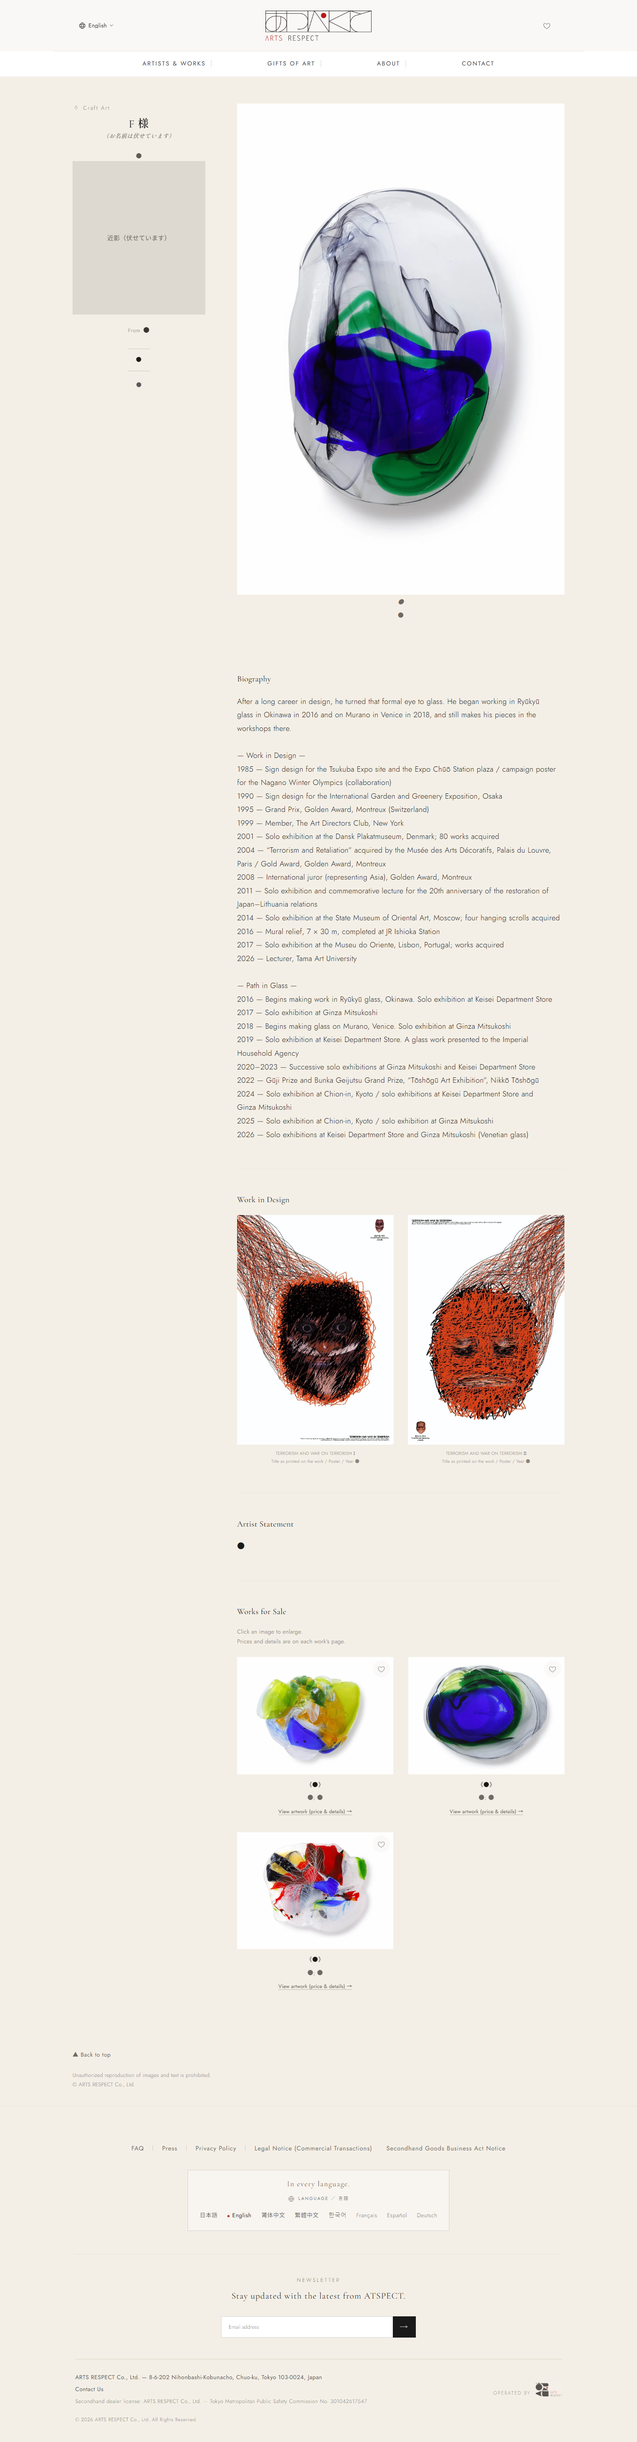
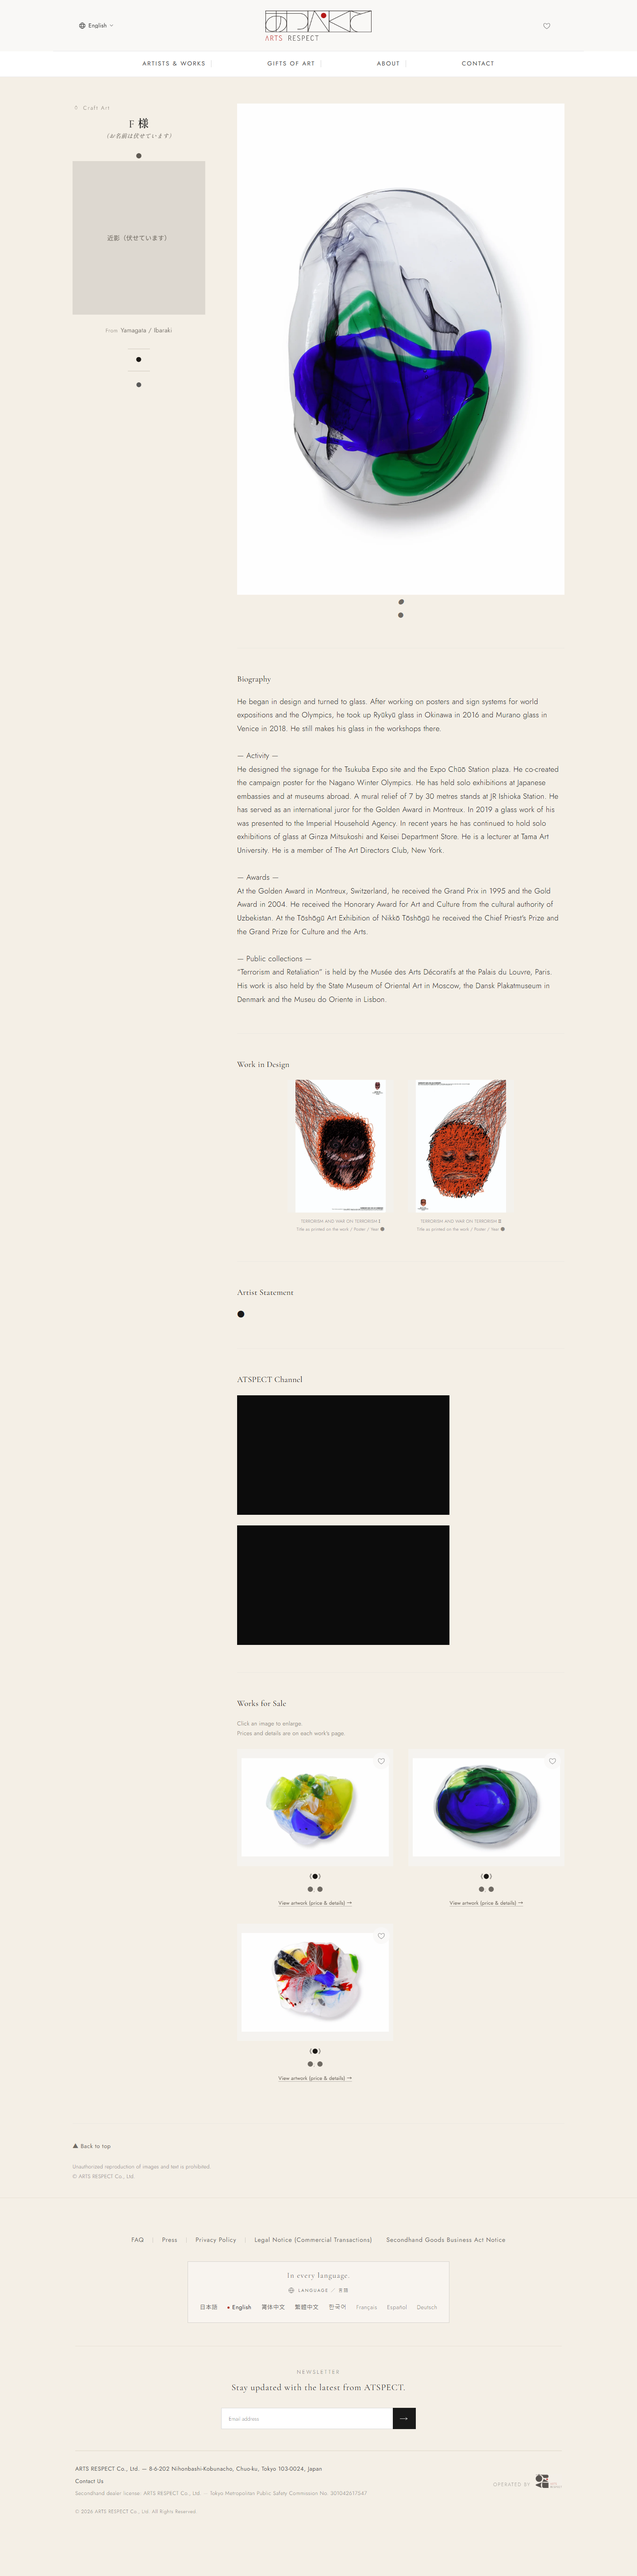
@ 制作: 実機確認のご指摘を是正（図版の切り抜き・経歴の作り直し）
- 販売作品の4:3切り抜きを廃止し全図表示へ（縦長作品は上下36.6%が失われていた・実測）
- 影響範囲を全数確認＝作品を持つ作家は3名9点のみ。作品ブラウズ・作品詳細は元から全図
- デザイン代表作2点を縮小（高さ最大300px・中央揃え）
- 経歴を年譜から種類別の区分へ（W様=活動歴／F様=活動歴・受賞歴・収蔵）。8言語で行数・区分数一致
- F様の出身を「山形・茨城」に確定、生年・年齢は非掲載
- Codex指摘21件をすべて採用（文まるごと置換＋置換後の読み直し）
- 資料の文面・構成のままの転載を禁じる恒久ルールをCLAUDE.mdへ記録

@

diff --git a/reports/seisaku.md b/reports/seisaku.md
@@ -196,3 +196,100 @@ F様の確認一枚の**冒頭**に置きました（●の一覧より前に、
 直すと既存ページの見え方も変わるため、**本便では触っていません**（ご判断をいただければ対応します）。
 
 <!-- 追記 2026-08-13 あつぺくと制作T / Opus 5 -->
+
+---
+
+# 追記（2026-08-13・制作T／Opus 5）＝実機確認のご指摘を是正しました
+
+## 10. 恒久ルールを先に記録しました
+
+**「お預かりした資料は、事実の源であって原稿ではない。事実は資料から取り、書き方は必ずあつぺくとの仕様
+（既存作家ページの型・文体・分量）に編集し直す。資料の文面・構成のままの転載を禁止する。」**
+をプロジェクトのCLAUDE.mdへ追記しました。**実例（今回の失敗）も併記**しています＝
+**事実は合っていたが、構成が資料（年譜）のままで、既存の作家ページと揃っていなかった。**
+「事実が合っているか」だけを見て「書き方が当社の型か」を見ていなかったのが原因です。
+
+## 11. 図版
+
+### 11-1. ★販売作品＝切り取られていた（実測して直しました）
+
+作家ページの販売作品は **4:3に切り抜く（cover）** 作りでした。**縦長の作品ほど大きく失われます。**
+
+| 作品 | 切り抜きで失われていた量（実測） |
+|---|---|
+| W様の縦長の作品2点 | **上下が 36.6% / 36.5%** |
+| W様の横長の作品1点 | 上下が 10.3% |
+| F様のガラス3点 | 左右が 11.1%（3点とも） |
+| 既存の作家さまの3点 | 左右が 0.1% / 0.7% / 4.6%（ほぼ切れていなかった） |
+
+→ **縦横比を保ったまま枠に収め、余りは余白にする形（contain）へ変更**しました。**切り抜きは無くなりました。**
+
+### 11-2. 既存作家さまへの影響＝**3名・9点だけ**（全数を数えて確認）
+
+**作品を持つ作家さまは全体で3名しかいません**（他の作家さまのページには販売作品の欄そのものが出ません）。
+うち2名は今回の2名で、残る1名が既存の作家さまです。**その1名の作品は元から4:3に近く撮られており、
+失われていたのは0.1〜4.6%**でした。**反映後に実機で確認し、退行は0件**です。
+
+★**作品ブラウズと作品詳細は、以前から全図表示（contain）で、切り抜きはありませんでした**（実測）。
+**直す必要があったのは作家ページの1箇所だけ**です。**勝手に全体へ当てていません。**
+
+### 11-3. デザインの代表作2点＝小さくしました
+
+高さで頭打ちにして（最大300px）、代表作の図版より控えめな大きさに変えました。中央に揃えています。
+
+## 12. 経歴を作り直しました（2名とも）
+
+**年ごとに並べる形（年譜）をやめ、種類別の区分に組み直しました。**
+
+| | 区分 |
+|---|---|
+| W様 | 冒頭の1段落 ＋【活動歴】 |
+| F様 | 冒頭の紹介文 ＋【活動歴】【受賞歴】【収蔵】 |
+
+- **F様の「デザインからガラスへ」の一本の線は、区分ではなく冒頭の紹介文で語る形**にしました
+  （二章の枠組みは廃止）。
+- **資料の文面のままにせず、当社の文体で書き直しました。1文1事実。**
+- **8言語すべてで、行数・区分数が一致**していることを機械で確認（W様4行／F様10行・3区分）。
+
+## 13. F様の事実（代表確定分）
+
+- **出身＝「山形・茨城」**と記載しました（8言語）。
+- **生年・年齢は掲載していません**（表示から外し、●にもしていません）。実際に生年の行が出ていないことを確認済み。
+- 確認一覧（★ご確認のお願い）から**生年・出身の●を削除**し、**新しい構成に合わせて全面的に書き直しました**
+  （旧構成の語が残っていないことも機械で確認）。
+
+★**1点お知らせ**＝W様も資料上「1951年 山形県生まれ」です。F様の出身に「山形」が入るのは
+**取り違えではない**という前提で反映しています。もし混同でしたらお知らせください。
+
+## 14. Codexの独立レビュー（1ファイル1観点で2件依頼・両方とも返答あり）
+
+**W様5件・F様16件、合計21件すべてを採用**しました。主な型：
+
+| 指摘の型 | 件数 | 例 |
+|---|---|---|
+| 原文の「個展」が訳文で落ちている | 8 | 「展示した」に弱まっていた |
+| 役職・機関名が別のものに変わっている | 8 | 「文化庁」が「文化省」に／「講師」が「教えている」に |
+| 原文に無い意味が足されている | 2 | 「グランプリ」が「特別大奖」に |
+| 別の館と読める書き方 | 2 | ルーヴル宮の中の装飾芸術美術館が、ルーヴル美術館と読めた |
+| 並列の前置詞が不統一 | 1 | 西語 |
+
+★**前回の反省を踏まえ、今回は断片ではなく文まるごとを置き換え、置換後の文を1つずつ読み直しました**
+（前回は断片置換で仏・西の文法を壊しました）。**今回は壊れ0件**です。
+
+## 15. 検品
+
+- **2名 × 2言語（ja/en）× 3幅（1440 / 768 / 390）＝12枚**＋部分カット（販売作品の全図・デザイン2点・価格）。
+- **撮影前に毎回いちど最下部までスクロールし、位置0を実測してから撮影。**
+- **横溢れ＝12通りすべて0件。** 販売作品3点・デザイン2点・動画枠の描画数も全通りで一致。
+- **画像を目で見て確認**＝販売作品が**切り取られずに全体が見えている**こと、デザイン2点が**小さくなった**ことを確認。
+- ★検品写真に言語確認のバーが被っていたため、**撮影の間だけ消して**撮り直しました。
+- ★**検査スクリプトが旧仕様（2章）を期待したまま「不一致」と出していた**ので、
+  **件数を固定で書かず「8言語で揃っているか」を見る形**に直しました（検査そのものの空振りを潰した）。
+
+## 16. できていないこと（正直に）
+
+1. **実機（iPhone等）では確認していません。** 当方は実機を持ちません。
+2. **モバイル幅の動画枠が本文幅より小さい件は、今回も触っていません**（既存ページと同じ値のため）。
+3. F様の**近影が456×528px**と小さいままです（高解像度をいただければ差し替えます）。
+
+<!-- 追記 2026-08-13 あつぺくと制作T / Opus 5 -->
